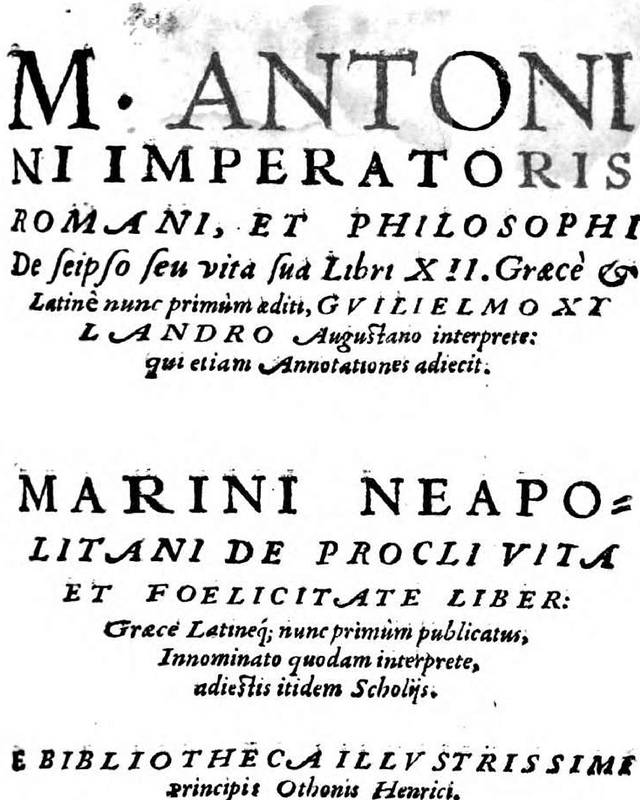
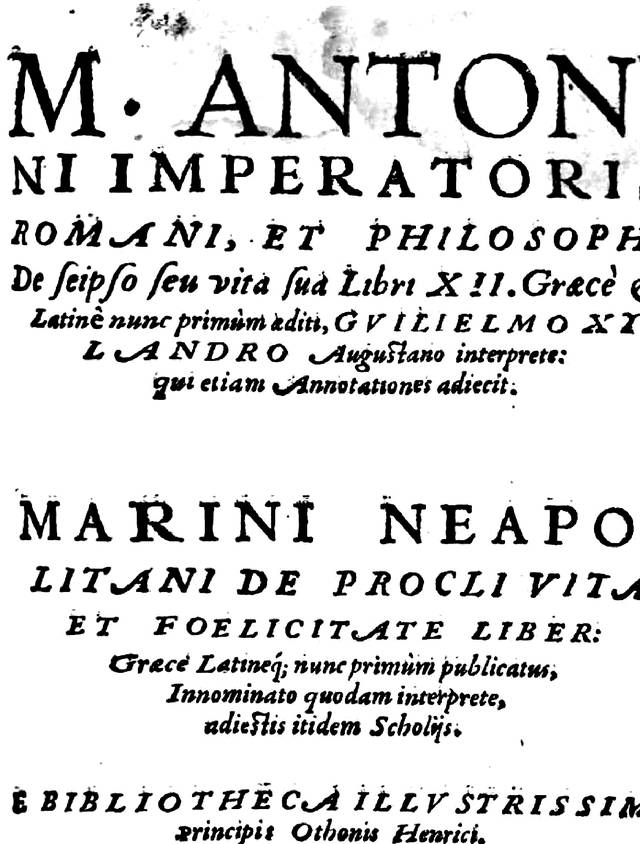
Design A: title on the first screen (image capped by viewport, tighter head), caption and attribution cannot overflow a phone, Meditations scan cleaned so its paper blends away
Claude-Session: https://claude.ai/code/session_01KA2bCrr3S4bJ5pXJrFxSK9

Changed region(s): [[0.0, 0.0, 1.0, 0.5], [0.0312, 0.5625, 1.0, 0.875], [0.0, 0.9062, 1.0, 1.0]]

diff --git a/css/direction-a.css b/css/direction-a.css
@@ -39,16 +39,16 @@
 .site-footer-publication-name { font-weight: 400; color: var(--sd-ink) }
 
 /* ---- the text's one image, then the title ---- */
-.sd-art { margin: 0; padding: clamp(28px, 6vw, 72px) 20px 0; display: grid; justify-items: center }
-.sd-art img { display: block; max-width: min(100%, 560px); max-height: 62vh; width: auto; height: auto; mix-blend-mode: multiply }
-.sd-art figcaption { font-family: var(--sd-text); font-style: italic; font-size: 14px; color: var(--sd-muted); margin-top: 14px; text-align: center; max-width: 36em; line-height: 1.45 }
-@media (max-width: 640px) { .sd-art { padding-top: 16px } .sd-art img { max-height: 50svh } }
-.rs[data-rs-theme="personal"] .rs-head .rs-wrap { padding-block: clamp(28px, 5vw, 56px) 0; text-align: center; display: grid; justify-items: center }
-.rs[data-rs-theme="personal"] .rs-head .rs-head-text { display: grid; justify-items: center; max-width: 34em }
+.sd-art { margin: 0; padding: clamp(20px, 3vw, 40px) 20px 0; display: grid; justify-items: center; max-width: 100% }
+.sd-art img { display: block; max-width: min(100%, 520px); max-height: 46vh; width: auto; height: auto; mix-blend-mode: multiply }
+.sd-art figcaption { font-family: var(--sd-text); font-style: italic; font-size: 13.5px; color: var(--sd-muted); margin-top: 10px; text-align: center; max-width: min(36em, 100%); line-height: 1.4; overflow-wrap: anywhere }
+@media (max-width: 640px) { .sd-art { padding: 12px 16px 0 } .sd-art img { max-height: 40svh } }
+.rs[data-rs-theme="personal"] .rs-head .rs-wrap { padding-block: clamp(18px, 3vw, 32px) 0; text-align: center; display: grid; justify-items: center }
+.rs[data-rs-theme="personal"] .rs-head .rs-head-text { display: grid; justify-items: center; max-width: min(34em, 100%); min-width: 0 }
 .rs[data-rs-theme="personal"] .rs-head .rs-kicker, .rs[data-rs-theme="personal"] .rs-head a.rs-kicker { align-self: center; font-family: var(--sd-label); font-size: 11px; letter-spacing: .16em; text-transform: uppercase; color: var(--sd-muted); font-weight: 500; text-decoration: none }
 .rs[data-rs-theme="personal"] .rs-head h1 { font-size: clamp(34px, 5vw, 50px); font-weight: 400; line-height: 1.12; margin: 14px 0 12px; font-variation-settings: "opsz" 48 }
 .rs[data-rs-theme="personal"] .rs-subtitle { font-style: italic; font-size: 1.05em; color: var(--sd-muted); margin: 0 0 14px; text-align: center }
-.rs[data-rs-theme="personal"] .rs-head .rs-attribution { font-size: .92em; line-height: 1.5; color: var(--sd-ink2); text-align: center; max-width: 26em }
+.rs[data-rs-theme="personal"] .rs-head .rs-attribution { font-size: .92em; line-height: 1.5; color: var(--sd-ink2); text-align: center; max-width: min(26em, 100%); overflow-wrap: anywhere }
 .rs[data-rs-theme="personal"] .rs-body .rs-wrap { padding-top: clamp(32px, 5vw, 64px) }
 
 /* ---- In brief: an italic paragraph with a small label, as a book's blurb; no box ---- */
